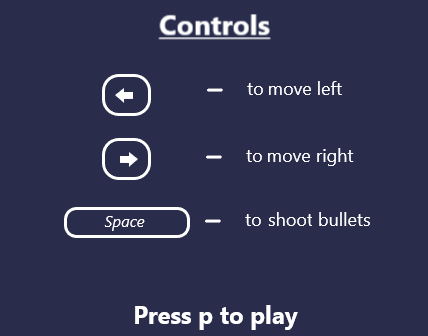
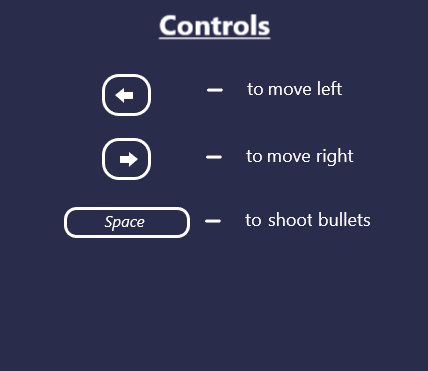
#22 fix: replace keys with buttons

diff --git a/space-invader/main.py b/space-invader/main.py
@@ -42,13 +42,20 @@ def iscollision(enemy_x,enemy_y,bullet_x,bullet_y):
         return True
     else:
         return False
-
+# Button class
+class button():
+    def __init__(self,x,y,image):
+        self.image = image
+        self.rect = self.image.get_rect()
+        self.rect.topleft = (x,y)
+    def draw(self):
+        screen.blit(self.image,(self.rect.x,self.rect.y))
 # Intro
 def intro(x,y):
     screen.fill((41,44,75))
     intro_run = True
     while intro_run:
-        if y > 100:
+        if y > 60:
             y -= 0.2
             player(x,y)
         else:
@@ -61,33 +68,51 @@ def intro(x,y):
     return y
 def game_banner(x,y):
     intro_img = pygame.image.load('space-invader\\intro.png')
-    text_img = pygame.image.load('space-invader\\intro-text.png')
+    play_img = pygame.image.load('space-invader\\play-btn.png')
+    play_btn = button(x+132,y+178,play_img)
+    ctrl_img = pygame.image.load('space-invader\\ctrl-btn.png')
+    ctrl_btn = button(x+90,y+280,ctrl_img)
     bgd = mixer.Sound('space-invader\\background.wav')
     screen.blit(intro_img,(x,y))
-    screen.blit(text_img,(x+65,y+170))
+    play_btn.draw()
+    ctrl_btn.draw()
     bgd.play(-1)
     pygame.display.update()
     show = True
+    clicked = False
     while show:
         for event in pygame.event.get():
              # For closing the window
             if event.type == pygame.QUIT:
                 pygame.quit()
-            elif event.type == pygame.KEYDOWN:
-                if event.key == pygame.K_p:
+            # Button related
+            if event.type == pygame.MOUSEBUTTONDOWN and clicked == False:
+                clicked = True
+            elif event.type == pygame.MOUSEBUTTONUP and clicked == True:
+                clicked = False
+                pos = pygame.mouse.get_pos()
+                if play_btn.rect.collidepoint(pos):
                     mode_img = pygame.image.load('space-invader\\mode.png')
+                    easy_img = pygame.image.load('space-invader\\easy-btn.png')
+                    easy_btn = button(x+135,y+50,easy_img)
+                    hard_img = pygame.image.load('space-invader\\hard-btn.png')
+                    hard_btn = button(x+135,y+200,hard_img)
                     screen.blit(mode_img,(x,y-50))
+                    easy_btn.draw()
+                    hard_btn.draw()
                     pygame.display.update()
-                elif event.key == pygame.K_e:
+                elif ctrl_btn.rect.collidepoint(pos):
+                    controls_img = pygame.image.load('space-invader\\controls.png')
+                    play_btn = button(x+135,y+300,play_img)
+                    screen.blit(controls_img,(x-2,y-10))
+                    play_btn.draw()
+                    pygame.display.update()
+                elif easy_btn.rect.collidepoint(pos):
                     mode = 'easy'
                     show = False
-                elif event.key == pygame.K_h:
+                elif hard_btn.rect.collidepoint(pos):
                     mode = 'hard'
                     show = False
-                elif event.key == pygame.K_c:
-                    controls_img = pygame.image.load('space-invader\\controls.png')
-                    screen.blit(controls_img,(x-2,y-40))
-                    pygame.display.update()
     return mode
 def intro2(x,y):
     screen.fill((41,44,75))
@@ -106,7 +131,7 @@ def intro2(x,y):
     return y
 
 player_y = intro(player_x,player_y)
-mode = game_banner(190,220)
+mode = game_banner(190,170)
 player_y = intro2(player_x,player_y)
 play = True
 
